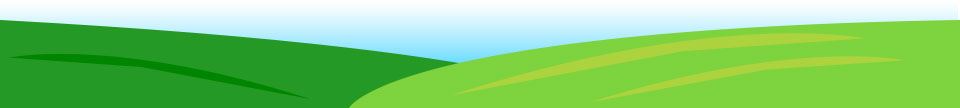
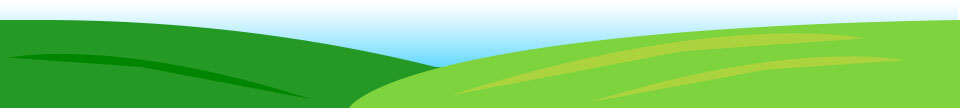
front page css/html

Changed region(s): [[0.0, 0.1667, 0.3438, 0.4167], [0.3438, 0.4167, 0.5, 0.6389]]

diff --git a/app/assets/stylesheets/application.css b/app/assets/stylesheets/application.css
@@ -74,68 +74,79 @@ table {
 body {
 	background-color:#FFF;
 	font-family: 'Open Sans', sans-serif;
-	}
+}
 
 header {
 	position: fixed;
 	top: 0;
 	left: 0;
 	width: 100%;	
-	background-color:green;	
-	}
+	padding-top: 10px;
+	height: 46px;
+	background: #00cc00;
+ 	background: url('/assets/linear-gradient.png') 0 0 repeat-x;
+	background: -moz-linear-gradient(top,  #00cc00 75%, #009900 100%); /* FF3.6+ */
+	background: -webkit-gradient(linear, left top, left bottom, color-stop(75%,#00cc00), color-stop(100%,#009900)); /* Chrome,Safari4+ */
+	background: -webkit-linear-gradient(top,  #00cc00 75%,#009900 100%); /* Chrome10+,Safari5.1+ */
+	background: -o-linear-gradient(top,  #00cc00 75%,#009900 100%); /* Opera 11.10+ */
+	background: -ms-linear-gradient(top,  #00cc00 75%,#009900 100%); /* IE10+ */
+	background: linear-gradient(to bottom,  #00cc00 75%,#009900 100%); /* W3C */
+	filter: progid:DXImageTransform.Microsoft.gradient( startColorstr='#00cc00', endColorstr='#008833',GradientType=0 ); /* IE6-9 */
+}
 
 .top {
 	width: 940px;
 	margin: 0 auto;
 	position: relative;
-	height: 50px;
-	}
+}
 
-.title{
-	font-size:36px;
+.logo{
 	float:left;
-	color:#FFF;
-	letter-spacing: .2em;
-	line-height: 1.5;
+	margin-right: 100px;
+}
+
+.tagline {
+	font-size:12px;
+	font-weight:bold;
+	color:black;
+	margin-bottom: 30px;
 }
 
 p {
-	font-size:18px;
+	font-size:12px;
 	font-weight:normal;
-	line-height: 1.5;
-	color:#000;
+	line-height: 1.2;
+	color:#ccc;
 	margin-bottom: 18px;
 }
 
 a, a:link, a:visited {
 	font-weight:bold;
 	line-height: 1.5;
-	color:#F69;
+	color:#F60;
 }
 
 a:hover {
-	font-weight:bold;
 	line-height: 1.5;
 	color:red;	
 }
 
 h1 {
-	font-size:22px;
-	font-weight:bold;
-	color:#000;
-	line-height: 2;
+	font-size:21px;
+	color:#009900;
+	line-height: 1.2;
+	margin-bottom: 24px;
 }
 
 h2 {
-	font-size:18px;
-	font-weight:bold;
-	color:#008833;
+	font-size:14px;
+	font-weight:normal;
+	color:black;
 	margin: 0px;
 	line-height: 1;
 }
 
 em {
-	color: grey;
 	font-style: italic;
 }
 
@@ -147,39 +158,103 @@ strong {
 article {
 	margin-left:auto;
 	margin-right:auto;
-	margin-bottom: 100px;
-	margin-top: 100px;
-	width:70%;
+	margin-bottom: 140px;
+	margin-top: 64px;
+	width: 940px;
 }
 
 section {
 	font-size:18px;
 	text-align: left;
 	line-height: 2;
-	margin: 12px 0;
-	width: 100%;
 }
 
 nav a, nav a:link, nav a:visited {
 	display:inline;
-	float:right;
-	font-size:10px;
-	font-weight:bold;
-	line-height: 1.2;
-	padding: 0 12px;
-	border-right: black 1px solid;
-	color:white;
+	float:left;
+	font-weight:normal;
+	font-size:14px;
+	padding: 10px 12px;
+	border-right: white 1px solid;
+	color:black;
 	text-decoration:none;
+	height: 21px;
+}
+
+nav a.highlight {
+	border-bottom:#FF3300 5px solid;	
+	color:white;
 }
 
 nav a:hover {
-	color:black;	
+	color:white;
+	border-bottom:#FF3300 5px solid;	
+
 }
 
-nav li:first-child a {
-	border: none;
+nav li:last-child a {
+	border-right: none;
 }
 
+.profile{
+	float:right;
+	margin-top: 6px;
+	margin-left: 30px;
+}
+
+
+form {
+	float:right;
+		margin-top: 6px;
+
+}
+
+.rightcolumn {
+	float:right;
+	width: 250px;
+	text-align:right;
+}
+.sources {
+	clear:both;
+}
+
+.bug {
+	float:right;
+	width:120px;
+	height:120px;
+	border-radius:73px;
+	border:#249e14 solid 3px;
+	background: #249e14;
+	background: -moz-linear-gradient(top,  #ffffff 0%, #61c419 31%, #249e14 71%, #ffffff 100%); /* FF3.6+ */
+	background: -webkit-gradient(linear, left top, left bottom, color-stop(0%,#ffffff), color-stop(31%,#61c419), color-stop(71%,#249e14), color-stop(100%,#ffffff)); /* Chrome,Safari4+ */
+	background: -webkit-linear-gradient(top,  #ffffff 0%,#61c419 31%,#249e14 71%,#ffffff 100%); /* Chrome10+,Safari5.1+ */
+	background: -o-linear-gradient(top,  #ffffff 0%,#61c419 31%,#249e14 71%,#ffffff 100%); /* Opera 11.10+ */
+	background: -ms-linear-gradient(top,  #ffffff 0%,#61c419 31%,#249e14 71%,#ffffff 100%); /* IE10+ */
+	background: linear-gradient(to bottom,  #ffffff 0%,#61c419 31%,#249e14 71%,#ffffff 100%); /* W3C */
+	filter: progid:DXImageTransform.Microsoft.gradient( startColorstr='#ffffff', endColorstr='#ffffff',GradientType=0 ); /* IE6-9 */
+	text-align:center;
+	padding:10px;
+}
+.bugtext {
+	margin-top:10px;
+	display:block;
+	font-size: 14px;
+	color:white;
+}
+.bugtext2 {
+	font-size: 14px;
+	color:white;
+	display:block;
+	line-height: 1.5;
+
+}
+
+.bugnumber {
+	font-size: 60px;
+	color:white;
+	line-height: 0.25;
+	display:block;
+}
 
 footer {
 	position: fixed;
@@ -187,13 +262,19 @@ footer {
 	left: 0;
 	width: 100%;	
 	background-image:url(/assets/greenband.jpg) ;	
-	background-size: 108px 100%;
+	background-size: 100% 108px;
 }
 
 .footer {
 	height: 108px;
 	background-image:url(/assets/foothills.jpg);	
-	width: 940px;
+	width: 960px;
 	margin: 0 auto;
-	position: relative;
+	font-size:10px;
+}
+.footer p{
+	font-size:10px;
+	padding-top: 70px;
+	color:#666;
+	text-align:right;
 }
